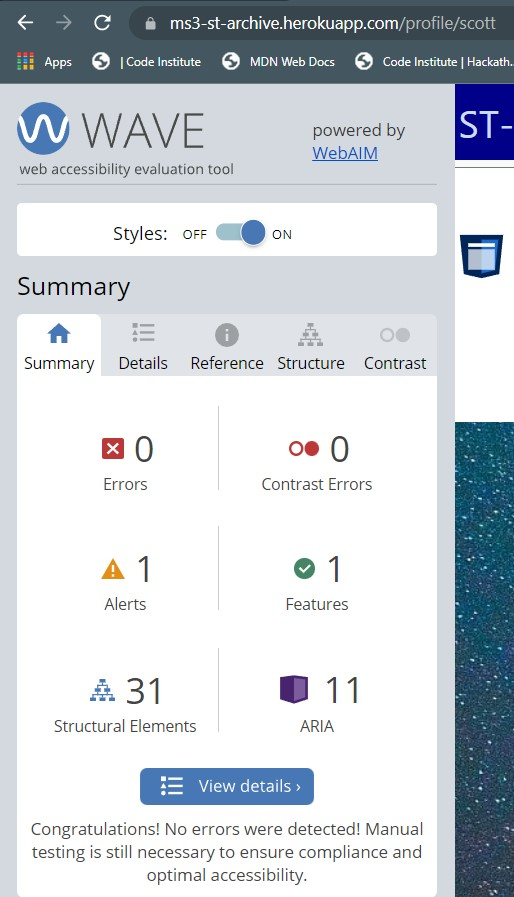
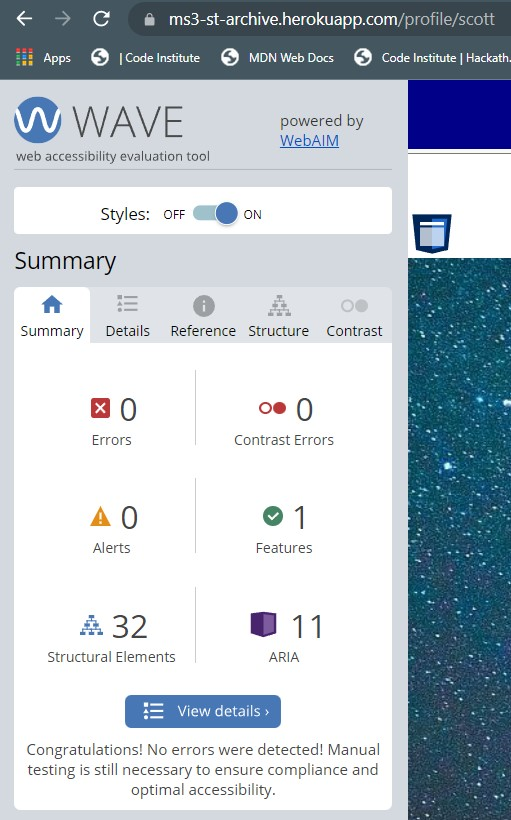
docs: add lighthouse results + wave result images

diff --git a/TESTING.md b/TESTING.md
@@ -585,45 +585,67 @@ Result for homepage:
 
 ![homepage](images/readme/w3c-results/w3c-markup_homepage.png)
 
+---
+
 Result for all books page:
 
 ![all_books](images/readme/w3c-results/w3c-markup_all-books.png)
+
+---
 
 Result for series page with Discovery selected:
 
 ![series_page-discovery](images/readme/w3c-results/w3c-markup_series-discovery.png)
 
+---
+
 Result for reviews page:
 
 ![reviews](images/readme/w3c-results/w3c-markup_reviews.png)
+
+---
 
 Result for register page:
 
 ![register](images/readme/w3c-results/w3c-markup_register.png)
 
+---
+
 Result for login page:
 
 ![login](images\readme\w3c-results\w3c-markup_login.png)
+
+---
 
 Result for add_review page:
 
 ![add-review](images/readme/w3c-results/w3c-markup_add-review.png)
 
+---
+
 Result for edit_review page:
 
 ![edit_review](images\readme\w3c-results\w3c-markup_edit-review.png)
+
+---
 
 Result for add_series page:
 
 ![add_series](images/readme/w3c-results/w3c-markup_add-series.png)
 
+---
+
 Result for add_book page:
 
 ![add_book](images/readme/w3c-results/w3c-markup_add-book.png)
 
+---
+
 Result for copyrights page:
 
 ![copyrights](images/readme/w3c-results/w3c-markup_copyrights.png)
+
+---
 
 Results for contact page:
 
@@ -647,54 +669,80 @@ The [web accessibility evaluation tool](https://wave.webaim.org/) was used to ch
 
 ![homepage](images/readme/wave-results/homepage.jpg)
 
+---
+
 -   **all_books page**:
 
 ![all_books](images\readme\wave-results\all_books.jpg)
+
+---
 
 -   **series_page** (Discovery, exemplary for all series_pages):
     Two alerts are reported due to redundant links in the navbar. With only two pages of results, both the link for page two of the results as well as the arrow for the next page point to the same URL. The same error gets reported for the 'pagination-bar' at the bottom of the page.
 
 ![series_discovery](images/readme/wave-results/series_discovery.jpg)
 
+---
+
 -   **reviews page**:
 
 ![reviews](images/readme/wave-results/reviews.jpg)
+
+---
 
 -   **copyright page**:
 
 ![copyrights](images\readme\wave-results\copyrights.jpg)
 
+---
+
 -   **contact page**:
 
 ![contact](images/readme/wave-results/contact.jpg)
+
+---
 
 -   **register page**:
 
 ![register](images/readme/wave-results/register.jpg)
 
+---
+
 -   **login page**:
 
 ![login](images\readme\wave-results\login.jpg)
+
+---
 
 -   **add_review page**:
 
 ![add_review](images\readme\wave-results\add_review.jpg)
 
+---
+
 -   **profile page**:
 
 ![profile](images\readme\wave-results\profile.jpg)
+
+---
 
 -   **edit_review page**:
 
 ![edit_review](images\readme\wave-results\edit_review.jpg)
 
+---
+
 -   **delete_review page**:
 
 ![delete_review](images\readme\wave-results\delete_review.jpg)
 
+---
+
 -   **add_series page**:
 
 ![add_series](images\readme\wave-results\add_series.jpg)
+
+---
 
 -   **add_book page**: 4 of the alerts resulted from short paragraphs ("Available as ebook?", "Available as paperback?", "Available as audiobook?" and "Part of mini-series?") that appeared to be headings. The 5th alerts results from a missing label for the select element. Adding an additional label tag did not fix the alert and even led to an error in the W3C Markup validator. I don't know else to fix it.
 
@@ -707,6 +755,165 @@ The [web accessibility evaluation tool](https://wave.webaim.org/) was used to ch
 ---
 
 ### **Lighthouse**
+
+The results for both the mobile version and the desktop version are displayed. The low SEO ratings are due to two errors:
+
+![seo-errors](images/readme/lighthouse-results/seo-errors.png)
+
+The two mentioned links are navbar-links ('Series' and 'Account') with a dropdown menu. 'Series' and 'Account' are not acting as links and therefore don't have an href attribute.
+I'm not aware that I created a robots.txt.
+
+-   **Homepage:**
+
+homepage-mobile:
+
+![homepage-mobile](images/readme/lighthouse-results/homepage-mobile.png)
+
+homepage-desktop:
+
+![homepage-desktop](images/readme/lighthouse-results/homepage-desktop.png)
+
+---
+
+-   **all_books page**:
+
+all_books-mobile:
+
+![all-_books-mobile](images/readme/lighthouse-results/all_books-mobile.png)
+
+all_books-desktop:
+
+![all_books-desktop](images/readme/lighthouse-results/all_books-desktop.png)
+
+---
+
+-   **series_page** (Discovery, exemplary for all series_pages):
+
+series_discovery-mobile:
+
+![series_discovery-mobile](images/readme/lighthouse-results/series_discovery-mobile.png)
+
+series_discover-desktop:
+
+![series_discovery-desktop](images/readme/lighthouse-results/series_discovery-desktop.png)
+
+---
+
+-   **reviews page**:
+
+reviews-mobile:
+
+![reviews-mobile](images/readme/lighthouse-results/reviews-mobile.png)
+
+reviews-desktop:
+
+![reviews-desktop](images/readme/lighthouse-results/reviews-desktop.png)
+
+---
+
+-   **copyrights page**:
+
+copyrights-mobile:
+
+![copyrights-mobile](images/readme/lighthouse-results/copyrights-mobile.png)
+
+copyrights-desktop:
+
+![copyrights-desktop](images/readme/lighthouse-results/copyrights-desktop.png)
+
+---
+
+-   **contact page**:
+
+contact-mobile:
+
+![contact-mobile](images/readme/lighthouse-results/contact-mobile.png)
+
+contact-desktop:
+
+![contact-desktop](images/readme/lighthouse-results/contact-desktop.png)
+
+---
+
+-   **register page**:
+
+register-mobile:
+
+![register-mobile](images/readme/lighthouse-results/register-mobile.png)
+
+register-desktop:
+
+![register-desktop](images/readme/lighthouse-results/register-desktop.png)
+
+---
+
+-   **login page**:
+
+login-mobile:
+
+![login-mobile](images/readme/lighthouse-results/login-mobile.png)
+
+login-desktop:
+
+![login-desktop](images/readme/lighthouse-results/login-desktop.png)
+
+---
+
+-   **add_review page**:
+
+add_review-mobile:
+
+![add_review-mobile](images/readme/lighthouse-results/add_review-mobile.png)
+
+add_review-desktop:
+
+![add_review-desktop](images/readme/lighthouse-results/add_review-desktop.png)
+
+---
+
+-   **profile page**:
+
+profile-mobile:
+
+![profile-mobile](images/readme/lighthouse-results/profile-mobile.png)
+
+profile-desktop:
+
+![profile-desktop](images/readme/lighthouse-results/profile-desktop.png)
+
+-   **edit_review page**:
+
+edit_review-mobile:
+
+![edit_review-mobile](images/readme/lighthouse-results/edit_review-mobile.png)
+
+edit_review-desktop:
+
+![edit_review-desktop](images/readme/lighthouse-results/edit_review-desktop.png)
+
+-   **add_series page**:
+
+add_series-mobile:
+
+![add_series-mobile](images/readme/lighthouse-results/add_series-mobile.png)
+
+add_series-desktop:
+
+![add_series-desktop](images/readme/lighthouse-results/add_series-desktop.png)
+
+-   **add_book page**:
+
+add_book-mobile:
+
+![add_book-mobile](images/readme/lighthouse-results/add_book-mobile.png)
+
+add_book-desktop:
+
+![add_book-desktop](images/readme/lighthouse-results/add_book-desktop.png)
+
+---
+
+---
 
 ### **JShint**
 

diff --git a/README.md b/README.md
@@ -266,37 +266,7 @@ For users who forgot their password, a password reset function is planned.
 
 ---
 
-### **Testing User Stories**
-
----
-
-Please refer to the separate [TESTING.md](TESTING.md)
-
-### **Functionality Testing**
-
----
-
-Please refer to the separate [TESTING.md](TESTING.md)
-
-### **Usability Testing**
-
----
-
-Please refer to the separate [TESTING.md](TESTING.md)
-
-### **Compatibility Testing**
-
----
-
-Please refer to the separate [TESTING.md](TESTING.md)
-
-## **Bugs**
-
----
-
----
-
-Please refer to the separate [TESTING.md](TESTING.md)
+Please refer to the separate [TESTING.md](TESTING.md) for all forms of testing and the documentation of bugs.
 
 ## **Deployment**
 
@@ -375,15 +345,15 @@ The colours for my colour palette were taken from [Steven Cote's](https://codepe
 
 Photos used as background for all pages were obtained from [Unsplash](https://unsplash.com).
 
-#### all pages except error pages
+#### **all pages except error pages**
 
 Starry sky: Photo by [Aperture Vintage](https://unsplash.com/@aperturevintage) on [Unsplash](https://unsplash.com/collections/kTCNECqjMRM/ms3-space/d1868ea4c622efa83b6e01d20cb1dea3?utm_source=unsplash&utm_medium=referral&utm_content=creditCopyText)
 
-#### 404.html
+#### **404.html**
 
 Solar eclipse: Photo by [Mathew Schwartz](https://unsplash.com/@cadop) on [Unsplash](https://unsplash.com/?utm_source=unsplash&utm_medium=referral&utm_content=creditCopyText)
 
-#### 500.html
+#### **500.html**
 
 Earth viewed from a space capsule: Photo by [NASA](https://unsplash.com/@nasa?utm_source=unsplash&utm_medium=referral&utm_content=creditCopyText) on [Unsplash](https://unsplash.com/collections/kTCNECqjMRM/ms3-space/d1868ea4c622efa83b6e01d20cb1dea3?utm_source=unsplash&utm_medium=referral&utm_content=creditCopyText)
 
